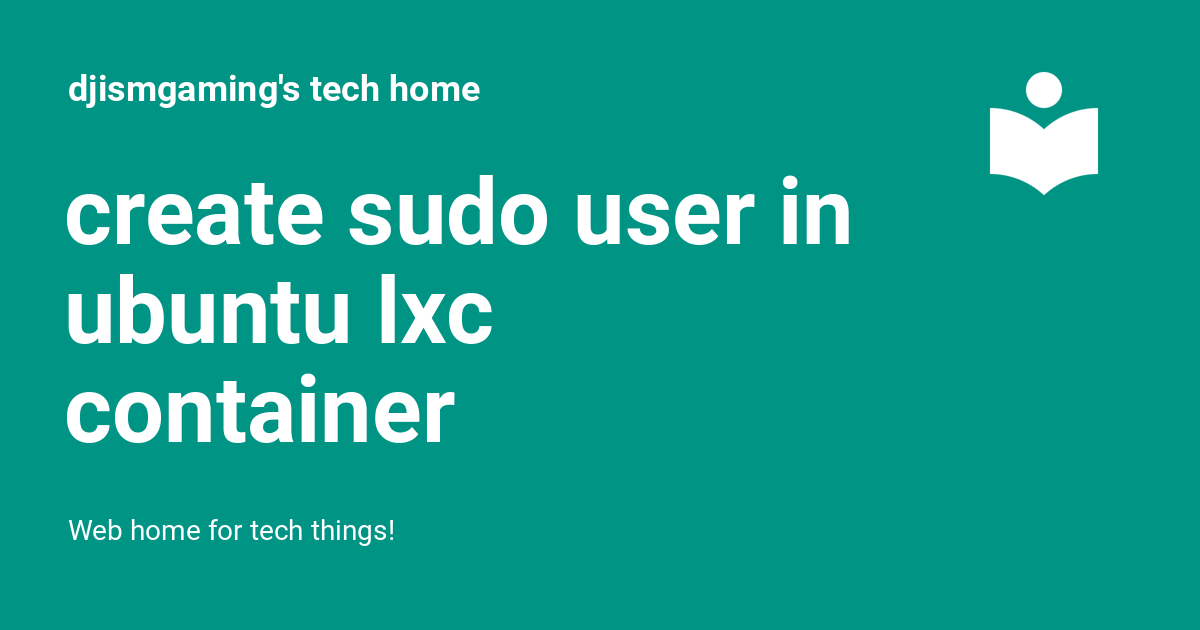
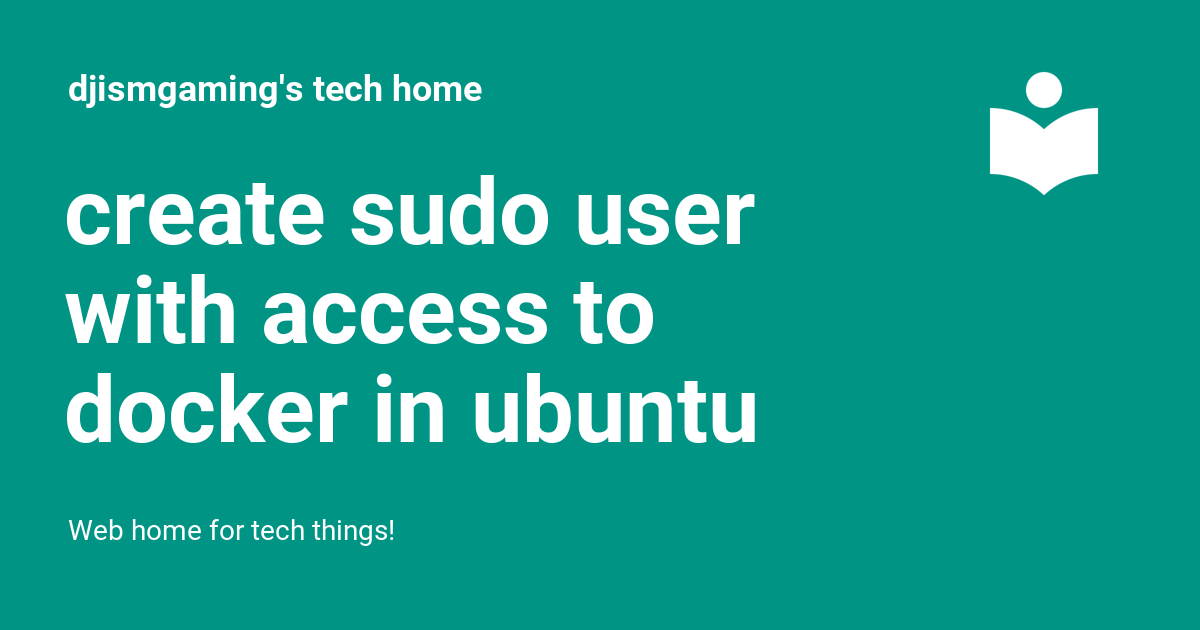
Deployed ed9f95a with MkDocs version: 1.5.3

diff --git a/documentation/commands/create-sudo-user-in-ubuntu-lxc-container/index.html b/documentation/commands/create-sudo-user-in-ubuntu-lxc-container/index.html
@@ -24,7 +24,7 @@
     
     
       
-        <title>create sudo user in ubuntu lxc container - djismgaming's tech home</title>
+        <title>create sudo user with access to docker in ubuntu lxc container - djismgaming's tech home</title>
       
     
     
@@ -61,7 +61,7 @@
       
         <meta  property="og:type"  content="website" >
       
-        <meta  property="og:title"  content="create sudo user in ubuntu lxc container - djismgaming's tech home" >
+        <meta  property="og:title"  content="create sudo user with access to docker in ubuntu lxc container - djismgaming's tech home" >
       
         <meta  property="og:description"  content="Web home for tech things!" >
       
@@ -77,7 +77,7 @@
       
         <meta  name="twitter:card"  content="summary_large_image" >
       
-        <meta  name="twitter:title"  content="create sudo user in ubuntu lxc container - djismgaming's tech home" >
+        <meta  name="twitter:title"  content="create sudo user with access to docker in ubuntu lxc container - djismgaming's tech home" >
       
         <meta  name="twitter:description"  content="Web home for tech things!" >
       
@@ -107,7 +107,7 @@
     <div data-md-component="skip">
       
         
-        <a href="#create-sudo-user-in-ubuntu-lxc-container" class="md-skip">
+        <a href="#create-sudo-user-with-access-to-docker-in-ubuntu-lxc-container" class="md-skip">
           Skip to content
         </a>
       
@@ -141,7 +141,7 @@
         <div class="md-header__topic" data-md-component="header-topic">
           <span class="md-ellipsis">
             
-              create sudo user in ubuntu lxc container
+              create sudo user with access to docker in ubuntu lxc container
             
           </span>
         </div>
@@ -648,7 +648,7 @@
         
   
   <span class="md-ellipsis">
-    create sudo user in ubuntu lxc container
+    create sudo user with access to docker in ubuntu lxc container
   </span>
   
 
@@ -1013,15 +1013,15 @@
   
 
 
-<h1 id="create-sudo-user-in-ubuntu-lxc-container">create sudo user in ubuntu lxc container<a class="headerlink" href="#create-sudo-user-in-ubuntu-lxc-container" title="Anchor link to this section for reference">⚓</a></h1>
-<p><code>sudo useradd -s /bin/bash -m -G sudo username</code></p>
+<h1 id="create-sudo-user-with-access-to-docker-in-ubuntu-lxc-container">create sudo user with access to docker in ubuntu lxc container<a class="headerlink" href="#create-sudo-user-with-access-to-docker-in-ubuntu-lxc-container" title="Anchor link to this section for reference">⚓</a></h1>
+<p><code>sudo useradd -s /bin/bash -m -G sudo,docker username</code></p>
 
   <hr>
 <div class="md-source-file">
   <small>
     
       Last update:
-      <span class="git-revision-date-localized-plugin git-revision-date-localized-plugin-timeago"><span class="timeago" datetime="2023-10-18T03:39:22+00:00" locale="en"></span></span><span class="git-revision-date-localized-plugin git-revision-date-localized-plugin-iso_date">2023-10-18</span>
+      <span class="git-revision-date-localized-plugin git-revision-date-localized-plugin-timeago"><span class="timeago" datetime="2023-11-09T13:25:54+00:00" locale="en"></span></span><span class="git-revision-date-localized-plugin git-revision-date-localized-plugin-iso_date">2023-11-09</span>
       
         <br>
         Created:

diff --git a/documentation/commands/linux-mitigation-disable-security-considerations-debian/index.html b/documentation/commands/linux-mitigation-disable-security-considerations-debian/index.html
@@ -639,7 +639,7 @@
         
   
   <span class="md-ellipsis">
-    create sudo user in ubuntu lxc container
+    create sudo user with access to docker in ubuntu lxc container
   </span>
   
 
@@ -1061,7 +1061,7 @@
       <nav class="md-footer__inner md-grid" aria-label="Footer" >
         
           
-          <a href="../create-sudo-user-in-ubuntu-lxc-container/" class="md-footer__link md-footer__link--prev" aria-label="Previous: create sudo user in ubuntu lxc container">
+          <a href="../create-sudo-user-in-ubuntu-lxc-container/" class="md-footer__link md-footer__link--prev" aria-label="Previous: create sudo user with access to docker in ubuntu lxc container">
             <div class="md-footer__button md-icon">
               
               <svg xmlns="http://www.w3.org/2000/svg" viewBox="0 0 24 24"><path d="M20 11v2H8l5.5 5.5-1.42 1.42L4.16 12l7.92-7.92L13.5 5.5 8 11h12Z"/></svg>
@@ -1071,7 +1071,7 @@
                 Previous
               </span>
               <div class="md-ellipsis">
-                create sudo user in ubuntu lxc container
+                create sudo user with access to docker in ubuntu lxc container
               </div>
             </div>
           </a>

diff --git a/documentation/commands/caching-on-nginx/index.html b/documentation/commands/caching-on-nginx/index.html
@@ -649,7 +649,7 @@
         
   
   <span class="md-ellipsis">
-    create sudo user in ubuntu lxc container
+    create sudo user with access to docker in ubuntu lxc container
   </span>
   
 
@@ -1086,13 +1086,13 @@ proxy_cache_use_stale error timeout invalid_header updating http_500 http_502 ht
         
         
           
-          <a href="../create-sudo-user-in-ubuntu-lxc-container/" class="md-footer__link md-footer__link--next" aria-label="Next: create sudo user in ubuntu lxc container">
+          <a href="../create-sudo-user-in-ubuntu-lxc-container/" class="md-footer__link md-footer__link--next" aria-label="Next: create sudo user with access to docker in ubuntu lxc container">
             <div class="md-footer__title">
               <span class="md-footer__direction">
                 Next
               </span>
               <div class="md-ellipsis">
-                create sudo user in ubuntu lxc container
+                create sudo user with access to docker in ubuntu lxc container
               </div>
             </div>
             <div class="md-footer__button md-icon">

diff --git a/404.html b/404.html
@@ -596,7 +596,7 @@
         
   
   <span class="md-ellipsis">
-    create sudo user in ubuntu lxc container
+    create sudo user with access to docker in ubuntu lxc container
   </span>
   
 

diff --git a/blog/2023/10/11/hello-world/index.html b/blog/2023/10/11/hello-world/index.html
@@ -639,7 +639,7 @@
         
   
   <span class="md-ellipsis">
-    create sudo user in ubuntu lxc container
+    create sudo user with access to docker in ubuntu lxc container
   </span>
   
 

diff --git a/blog/2023/10/12/this-is-a-start/index.html b/blog/2023/10/12/this-is-a-start/index.html
@@ -641,7 +641,7 @@
         
   
   <span class="md-ellipsis">
-    create sudo user in ubuntu lxc container
+    create sudo user with access to docker in ubuntu lxc container
   </span>
   
 

diff --git a/blog/2023/10/13/fix-your-slow-origin-games-download-speeds-updated/index.html b/blog/2023/10/13/fix-your-slow-origin-games-download-speeds-updated/index.html
@@ -641,7 +641,7 @@
         
   
   <span class="md-ellipsis">
-    create sudo user in ubuntu lxc container
+    create sudo user with access to docker in ubuntu lxc container
   </span>
   
 

diff --git a/blog/2023/10/13/iphone-style-add-a-period-after-entering-two-spaces-in-windows-10/index.html b/blog/2023/10/13/iphone-style-add-a-period-after-entering-two-spaces-in-windows-10/index.html
@@ -641,7 +641,7 @@
         
   
   <span class="md-ellipsis">
-    create sudo user in ubuntu lxc container
+    create sudo user with access to docker in ubuntu lxc container
   </span>
   
 

diff --git a/blog/2023/10/13/ssh-tunneling-for-easy-access-to-web-based-apps-form-servers/index.html b/blog/2023/10/13/ssh-tunneling-for-easy-access-to-web-based-apps-form-servers/index.html
@@ -641,7 +641,7 @@
         
   
   <span class="md-ellipsis">
-    create sudo user in ubuntu lxc container
+    create sudo user with access to docker in ubuntu lxc container
   </span>
   
 

diff --git a/blog/2023/10/18/set-up-your-ssh-key-based-authentication-from-windows-in-a-single-line/index.html b/blog/2023/10/18/set-up-your-ssh-key-based-authentication-from-windows-in-a-single-line/index.html
@@ -639,7 +639,7 @@
         
   
   <span class="md-ellipsis">
-    create sudo user in ubuntu lxc container
+    create sudo user with access to docker in ubuntu lxc container
   </span>
   
 

diff --git a/blog/index.html b/blog/index.html
@@ -647,7 +647,7 @@
         
   
   <span class="md-ellipsis">
-    create sudo user in ubuntu lxc container
+    create sudo user with access to docker in ubuntu lxc container
   </span>
   
 

diff --git a/documentation/commands/add-container-to-additional-network-on-unraid/index.html b/documentation/commands/add-container-to-additional-network-on-unraid/index.html
@@ -649,7 +649,7 @@
         
   
   <span class="md-ellipsis">
-    create sudo user in ubuntu lxc container
+    create sudo user with access to docker in ubuntu lxc container
   </span>
   
 
